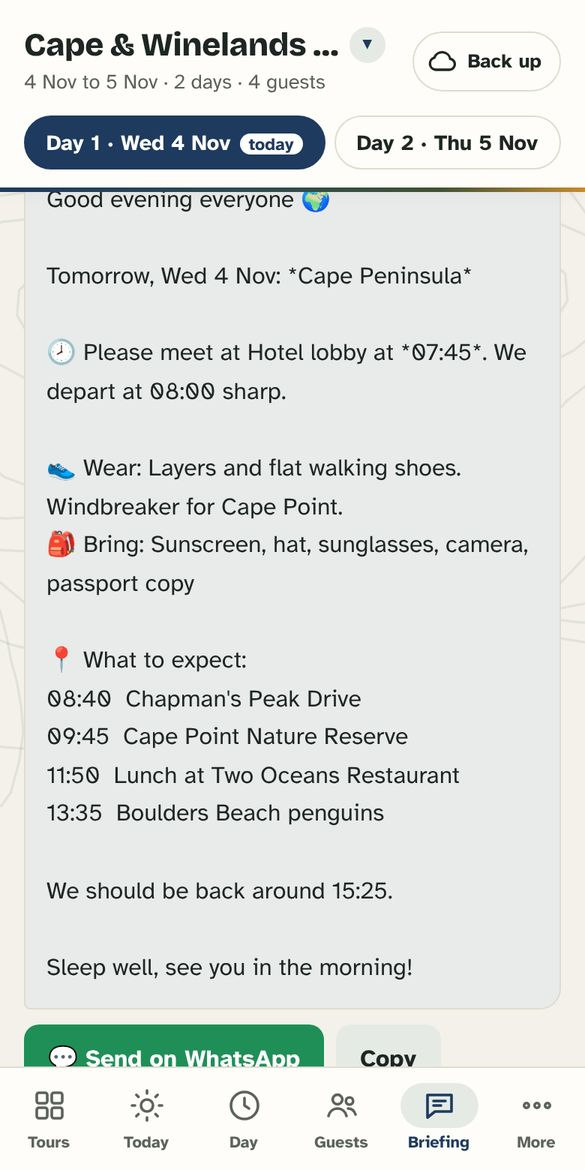
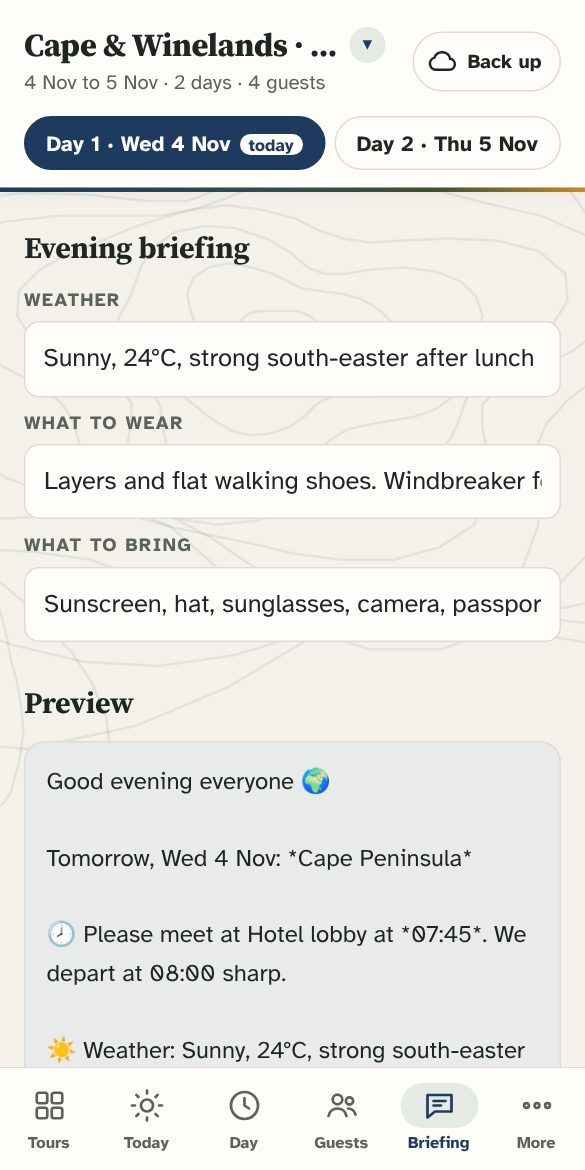
Fonts: Source Serif 4 for headings and times, Atkinson for body; refreshed landing screenshots
Claude-Session: https://claude.ai/code/session_018UiXZK7UZvbaUVGs1HsDqT

diff --git a/site/index.html b/site/index.html
@@ -1,16 +1,16 @@
 <!doctype html><html lang="en-GB"><head><meta charset="utf-8"><meta name="viewport" content="width=device-width,initial-scale=1,viewport-fit=cover"><meta name="theme-color" content="#1f3a5f"><meta name="color-scheme" content="light"><link rel="manifest" href="manifest.webmanifest"><link rel="icon" href="icon-192.png"><link rel="apple-touch-icon" href="icon-192.png"><style>:root{padding-top:env(safe-area-inset-top,0px);padding-bottom:env(safe-area-inset-bottom,0px)}[hidden]{display:none!important}</style>
 <title>Guidewise</title>
 <link rel="preconnect" href="https://fonts.googleapis.com">
-<link rel="stylesheet" href="https://fonts.googleapis.com/css2?family=Bricolage+Grotesque:opsz,wght@12..96,600;12..96,800&family=Atkinson+Hyperlegible:wght@400;700&family=JetBrains+Mono:wght@500&display=swap">
+<link rel="stylesheet" href="https://fonts.googleapis.com/css2?family=Source+Serif+4:opsz,wght@8..60,600;8..60,700;8..60,800&family=Atkinson+Hyperlegible:wght@400;700&display=swap">
 <style>
 /* Layout: a field kit. Sticky day header, one working panel, bottom tab bar for thumb use. */
 :root{
   --bg:#f4f5f1; --surface:#ffffff; --ink:#0f1a15; --muted:#4a5750; --line:#dde3de;
   --accent:#1f5546; --accent-2:#2f7a63; --accent-ink:#ffffff; --ochre:#94600f; --alert:#a3321f; --soft:#e6efe9; --sand:#f6efe2; color-scheme:light;
   --r:14px; --shadow:0 1px 2px rgb(15 26 21 / .05),0 4px 14px rgb(15 26 21 / .05);
-  --display:"Bricolage Grotesque",ui-sans-serif,system-ui,sans-serif;
+  --display:"Source Serif 4",Georgia,"Times New Roman",serif;
   --body:"Atkinson Hyperlegible",ui-sans-serif,system-ui,sans-serif;
-  --mono:"JetBrains Mono",ui-monospace,Menlo,monospace;
+  --mono:"Source Serif 4",Georgia,serif;
 }
 /* Light only: designed for reading outdoors in bright sun. */
 html,body{height:100%}
@@ -90,15 +90,15 @@ nav button.on svg{background:#e1e8ea}
 .inst{max-width:640px;margin:12px auto 0;box-sizing:border-box;display:flex;flex-wrap:wrap;gap:8px;align-items:center;justify-content:space-between;background:var(--soft);border:1px solid var(--line);border-radius:12px;padding:10px 12px;font-size:.92rem}
 @media (max-width:672px){.inst{margin:12px 16px 0}}
 a.btn{text-decoration:none;display:inline-flex;align-items:center}
-.rec{font:500 1.35rem/1.5 var(--mono);letter-spacing:.04em;background:var(--surface);border:2px dashed var(--accent);border-radius:12px;padding:14px;text-align:center;word-break:break-all;user-select:all}
+.rec{font:500 1.35rem/1.5 ui-monospace,Menlo,Consolas,monospace;letter-spacing:.04em;background:var(--surface);border:2px dashed var(--accent);border-radius:12px;padding:14px;text-align:center;word-break:break-all;user-select:all}
 /* timeline */
 .tl{display:grid;gap:0}
 .stop{display:grid;grid-template-columns:66px 1fr;gap:12px;position:relative}
-.time{font:500 1.05rem var(--mono);color:var(--ink);font-variant-numeric:tabular-nums;padding-top:12px;text-align:right}
+.time{font:700 1.05rem var(--mono);color:var(--ink);font-variant-numeric:tabular-nums;padding-top:12px;text-align:right}
 .time small{display:block;color:var(--muted);font-size:.8rem}
 .card{background:var(--surface);border:1px solid var(--line);border-radius:12px;padding:12px 14px;box-shadow:0 1px 3px rgb(17 26 22 / .04);display:grid;gap:8px;min-width:0;margin-block:6px}
 .card.lunch{border-left:4px solid var(--ochre)}
-.drive{grid-column:2;font:500 .85rem var(--mono);color:var(--muted);display:flex;align-items:center;gap:6px;padding-left:4px}
+.drive{grid-column:2;font:400 .85rem var(--mono);font-variant-numeric:tabular-nums;color:var(--muted);display:flex;align-items:center;gap:6px;padding-left:4px}
 .drive input{width:72px;padding:6px 8px;font-size:.9rem;min-height:36px}
 .mini{display:grid;grid-template-columns:repeat(3,1fr);gap:6px}
 .mini .field{gap:2px}
@@ -162,7 +162,7 @@ h2{letter-spacing:-.01em}
 .hero .meta{display:flex;flex-wrap:wrap;gap:6px 14px;font-size:.95rem;opacity:.95}
 .hero .now{margin-top:12px;background:rgb(255 255 255 / .14);border-radius:12px;padding:10px 12px;display:grid;gap:4px}
 .hero .now b{font-weight:700}
-.hero .now .t{font:500 .95rem var(--mono)}
+.hero .now .t{font:700 .95rem var(--mono);font-variant-numeric:tabular-nums}
 .hero .go{margin-top:12px;display:flex;gap:8px;flex-wrap:wrap}
 .hero .go button{background:#fff;color:var(--accent);border:0;border-radius:999px;padding:9px 14px;font:700 .9rem var(--body);cursor:pointer}
 .hero .go button.ghost{background:rgb(255 255 255 / .16);color:#fff}
@@ -195,7 +195,7 @@ h2{letter-spacing:-.01em}
 .rt{position:relative;margin-left:4px}
 .rt::before{content:"";position:absolute;left:64px;top:8px;bottom:8px;width:2px;background:var(--line)}
 .rs{display:grid;grid-template-columns:52px 1fr;gap:22px;position:relative;padding:6px 0}
-.rs .tm{font:500 1rem var(--mono);text-align:right;padding-top:10px;font-variant-numeric:tabular-nums}
+.rs .tm{font:700 1rem var(--mono);text-align:right;padding-top:10px;font-variant-numeric:tabular-nums}
 .rs .tm small{display:block;color:var(--muted);font-size:.75rem}
 .rs .dot{position:absolute;left:58px;top:18px;width:14px;height:14px;border-radius:50%;background:var(--surface);border:3px solid var(--accent)}
 .rs.lunch .dot{border-color:var(--ochre)}
@@ -206,7 +206,7 @@ h2{letter-spacing:-.01em}
 .rs.lunch .bx{border-left:4px solid var(--ochre)}
 .rs .bx b{display:block;overflow-wrap:anywhere}
 .rs .bx .note{display:block;margin-top:2px}
-.leg{grid-column:2;font:500 .82rem var(--mono);color:var(--muted);padding:0 0 0 2px}
+.leg{grid-column:2;font:400 .82rem var(--mono);font-variant-numeric:tabular-nums;color:var(--muted);padding:0 0 0 2px}
 .warn{color:var(--ochre);font-weight:700}
 /* guest list */
 .gl{display:flex;gap:12px;align-items:flex-start;width:100%;text-align:left;background:var(--surface);border:1px solid var(--line);border-radius:var(--r);padding:12px;margin-bottom:8px;font:inherit;color:inherit;cursor:pointer;box-shadow:var(--shadow)}

diff --git a/site/guides.html b/site/guides.html
@@ -4,10 +4,10 @@
 <meta property="og:title" content="Guidewise · Tomorrow, sorted."><meta property="og:description" content="The pocket app for tour guides. Day plan, guests, WhatsApp briefing, AI import, offline."><meta property="og:image" content="img/app-today.jpg">
 <link rel="icon" href="icon-192.png"><link rel="manifest" href="manifest.webmanifest">
 <link rel="preconnect" href="https://fonts.googleapis.com">
-<link rel="stylesheet" href="https://fonts.googleapis.com/css2?family=Bricolage+Grotesque:opsz,wght@12..96,600;12..96,800&family=Atkinson+Hyperlegible:wght@400;700&display=swap">
+<link rel="stylesheet" href="https://fonts.googleapis.com/css2?family=Source+Serif+4:opsz,wght@8..60,600;8..60,700;8..60,800&family=Atkinson+Hyperlegible:wght@400;700&display=swap">
 <style>
 :root{--bg:#f4f1ea;--surface:#fff;--ink:#0f1a15;--muted:#4a5750;--line:#dde3de;--accent:#1f3a5f;--accent-2:#2c4a52;--ochre:#3f5232;--soft:#e5ebe4;--sand:#f6e9d6;--sky:#2f6ea5;--plum:#7a4b8c;--rose:#b2465a;--game:#3f7a34;
-  --display:"Bricolage Grotesque",ui-sans-serif,system-ui,sans-serif;--body:"Atkinson Hyperlegible",ui-sans-serif,system-ui,sans-serif;--shadow:0 1px 2px rgb(15 26 21 / .05),0 8px 24px rgb(15 26 21 / .07)}
+  --display:"Source Serif 4",Georgia,"Times New Roman",serif;--body:"Atkinson Hyperlegible",ui-sans-serif,system-ui,sans-serif;--shadow:0 1px 2px rgb(15 26 21 / .05),0 8px 24px rgb(15 26 21 / .07)}
 *{box-sizing:border-box}
 body{margin:0;background:var(--bg) url(topo-earth.svg) right -200px top -40px/900px auto no-repeat;color:var(--ink);font:18px/1.6 var(--body)}
 a{color:var(--accent)}

diff --git a/site/setup.html b/site/setup.html
@@ -1,6 +1,7 @@
 <!doctype html><html lang="en-GB"><head><meta charset="utf-8"><meta name="viewport" content="width=device-width,initial-scale=1"><meta name="color-scheme" content="light"><meta name="theme-color" content="#ffffff">
 <title>Set up Guidewise</title>
 <link rel="icon" href="icon-192.png">
+<link rel="preconnect" href="https://fonts.googleapis.com"><link rel="stylesheet" href="https://fonts.googleapis.com/css2?family=Source+Serif+4:opsz,wght@8..60,600;8..60,700;8..60,800&family=Atkinson+Hyperlegible:wght@400;700&display=swap">
 <style>
 :root{--bg:#f4f1ea;--surface:#fff;--ink:#111a16;--muted:#46534c;--line:#d6ddd8;--accent:#1f3a5f;--soft:#e5ebe4;--ochre:#9a6212}
 body{background:var(--bg);color:var(--ink);font:17px/1.6 "Atkinson Hyperlegible",ui-sans-serif,system-ui,sans-serif;margin:0}
@@ -15,6 +16,7 @@ nav.toc{display:flex;flex-wrap:wrap;gap:6px;margin:8px 0}
 nav.toc a,.btn{display:inline-block;border:1px solid var(--line);background:var(--surface);color:var(--ink);border-radius:999px;padding:6px 12px;font-weight:700;font-size:.88rem;text-decoration:none}
 .btn{background:var(--accent);color:#fff;border-color:var(--accent);padding:10px 16px;font-size:1rem}
 a{color:var(--accent)}
+h1,h2{font-family:"Source Serif 4",Georgia,"Times New Roman",serif;font-weight:700;letter-spacing:-.01em}
 </style></head><body><main>
 <h1>Set up Guidewise</h1>
 <p class="sub">Tomorrow, sorted. About 5 minutes, once.</p>

diff --git a/site/terms.html b/site/terms.html
@@ -1,6 +1,7 @@
 <!doctype html><html lang="en-GB"><head><meta charset="utf-8"><meta name="viewport" content="width=device-width,initial-scale=1"><meta name="color-scheme" content="light">
 <title>Guidewise terms and pricing</title>
 <link rel="icon" href="icon-192.png">
+<link rel="preconnect" href="https://fonts.googleapis.com"><link rel="stylesheet" href="https://fonts.googleapis.com/css2?family=Source+Serif+4:opsz,wght@8..60,600;8..60,700;8..60,800&family=Atkinson+Hyperlegible:wght@400;700&display=swap">
 <style>
 :root{--bg:#f4f1ea;--ink:#111a16;--muted:#46534c;--accent:#1f3a5f;--line:#d6ddd8}
 body{background:var(--bg);color:var(--ink);font:17px/1.6 "Atkinson Hyperlegible",ui-sans-serif,system-ui,sans-serif;margin:0}
@@ -8,6 +9,7 @@ main{max-width:640px;margin:0 auto;padding:24px 16px 60px}
 h1{font-size:1.6rem;margin:0 0 4px}h2{font-size:1.15rem;margin:28px 0 8px}
 small{color:var(--muted)}a{color:var(--accent)}
 table{border-collapse:collapse;width:100%;margin:8px 0}td,th{border:1px solid var(--line);padding:8px;text-align:left;vertical-align:top}th{background:#fff}
+h1,h2{font-family:"Source Serif 4",Georgia,"Times New Roman",serif;font-weight:700;letter-spacing:-.01em}
 </style></head><body><main>
 <h1>Terms and pricing</h1>
 <small>Version 1 · 3 November 2026</small>

diff --git a/site/privacy.html b/site/privacy.html
@@ -1,11 +1,13 @@
 <!doctype html><html lang="en-GB"><head><meta charset="utf-8"><meta name="viewport" content="width=device-width,initial-scale=1"><meta name="color-scheme" content="light">
 <title>Guidewise privacy notice</title>
+<link rel="preconnect" href="https://fonts.googleapis.com"><link rel="stylesheet" href="https://fonts.googleapis.com/css2?family=Source+Serif+4:opsz,wght@8..60,600;8..60,700;8..60,800&family=Atkinson+Hyperlegible:wght@400;700&display=swap">
 <style>
 :root{--bg:#f4f1ea;--ink:#111a16;--muted:#46534c;--accent:#1f3a5f;--line:#d6ddd8}
 body{background:var(--bg);color:var(--ink);font:17px/1.6 "Atkinson Hyperlegible",ui-sans-serif,system-ui,sans-serif;margin:0}
 main{max-width:640px;margin:0 auto;padding:24px 16px 60px}
 h1{font-size:1.6rem;margin:0 0 4px}h2{font-size:1.15rem;margin:28px 0 8px}
 p,li{color:var(--ink)}small{color:var(--muted)}a{color:var(--accent)}
+h1,h2{font-family:"Source Serif 4",Georgia,"Times New Roman",serif;font-weight:700;letter-spacing:-.01em}
 </style></head><body><main>
 <h1>Guidewise privacy notice</h1>
 <small>Version popia-v2 · AI import ai-v1 · 3 November 2026</small>

diff --git a/site/sw.js b/site/sw.js
@@ -1,4 +1,4 @@
-const C='tp-v36';const F=['./','index.html','backup.js','import.js','vendor/supabase-2.45.4.js','privacy.html','setup.html','guides.html','terms.html','manifest.webmanifest','icon-192.png','icon-512.png','topo.svg','topo-w.svg','topo-earth.svg'];
+const C='tp-v37';const F=['./','index.html','backup.js','import.js','vendor/supabase-2.45.4.js','privacy.html','setup.html','guides.html','terms.html','manifest.webmanifest','icon-192.png','icon-512.png','topo.svg','topo-w.svg','topo-earth.svg'];
 self.addEventListener('install',e=>{e.waitUntil(caches.open(C).then(c=>c.addAll(F)));self.skipWaiting()});
 self.addEventListener('activate',e=>{e.waitUntil(caches.keys().then(k=>Promise.all(k.filter(x=>x!==C).map(x=>caches.delete(x)))));self.clients.claim()});
 /* Own files: network first (so a new version shows at once when there is signal), saved copy when offline or slow.

diff --git a/CLAUDE.md b/CLAUDE.md
@@ -10,7 +10,7 @@ Tagline idea: "Guidewise. Tomorrow, sorted."
 ## Files
 - site/: everything public (Netlify publish dir, set in netlify.toml). Nothing outside site/ is served
 - site/index.html: whole app (vanilla JS, no build step)
-- site/sw.js: service worker. Bump cache name tp-vN on every front-end change (currently tp-v36; own files are fetched network-first, cache when offline). New precached files go in its F list
+- site/sw.js: service worker. Bump cache name tp-vN on every front-end change (currently tp-v37; own files are fetched network-first, cache when offline). New precached files go in its F list
 - site/backup.js: cloud backup (sign-in, POPIA consent, passphrase, encrypt, sync). Shares globals with index.html
 - site/import.js: AI import (tab 'import', from Tours > Import from documents or the Docs tab; can use documents already saved in the tour). Loaded after backup.js and uses its globals (sb, user, plan, plus, refresh, SB_URL, SB_KEY)
 - site/vendor/xlsx-mini-0.18.5.js: SheetJS (Apache-2.0), lazy-loaded by import.js for .xlsx/.csv
@@ -38,6 +38,7 @@ Tagline idea: "Guidewise. Tomorrow, sorted."
 - Print or PDF (tab 'print'): #printOut filled by printHTML(), @media print shows only it; whole tour or one day, rooming list, dietaries, optional guest notes, checklists. Never prints birthdays
 - Guest list import without AI (tab 'gimport', in import.js): reads .xlsx/.csv on the phone, matches Name or First/Last, Room/Room type, Dietary, DOB/Birthday (MM-DD), Notes/Requests; ignores private columns (DROP); review then add new and fill empty fields of existing. Adding a spreadsheet in Documents that holds 2+ guests offers the same
 - Venues (tab 'venues'): T.venues {key:{name,phone,addr,note}}, gathered from every tour's stops with a phone or address; add, edit, search, delete
+- Fonts (v17): Source Serif 4 for headings and clock times (--display, --mono; tabular figures), Atkinson Hyperlegible for body (outdoor legibility). Google Fonts on every page; recovery code uses system monospace
 - Day and Guests are read-first (timeline / guest cards) with Edit day / tap-to-edit (editDay, editG). Keep new screens read-first with a clear primary action
 
 ## Features (v3)
